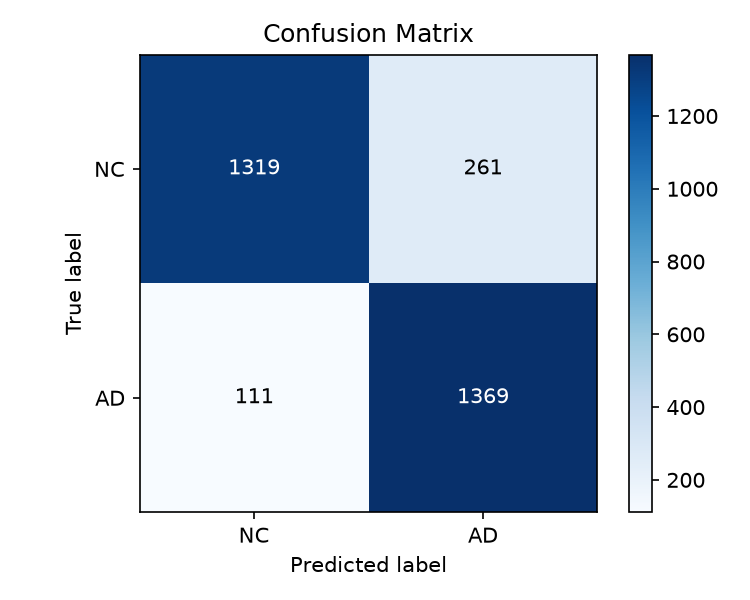
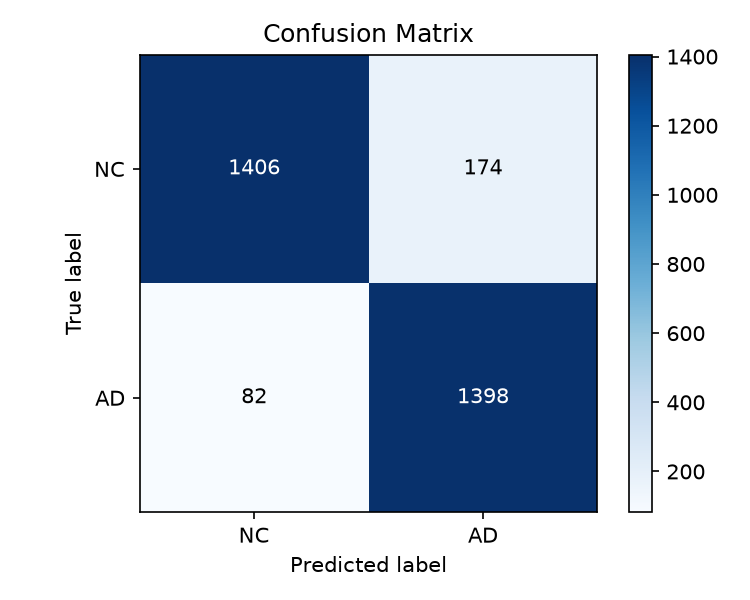
redid training history, confusion matricies, and test metrics for convnext and resnet18

diff --git a/recognition/ConvNeXt_48900353/modules.py b/recognition/ConvNeXt_48900353/modules.py
@@ -177,7 +177,7 @@ class ConvNeXt(nn.Module):
     dropout_rate is applied to pooled features before the classification head.
     """
 
-    def __init__(self, num_classes=2, drop_path_rate=0.1, dropout_rate=0.2):
+    def __init__(self, num_classes=2, drop_path_rate=0.1):
         super().__init__()
 
         # tiny
@@ -221,7 +221,6 @@ class ConvNeXt(nn.Module):
                 ))
 
         self.norm = nn.LayerNorm(widths[-1], eps=1e-6)
-        self.dropout = nn.Dropout(p=dropout_rate)
         self.head = nn.Linear(widths[-1], num_classes)
         self.apply(self._init_weights)
 
@@ -241,7 +240,6 @@ class ConvNeXt(nn.Module):
 
         x = x.mean(dim=(2, 3))  # global average pooling: (N, C, H, W) -> (N, C)
         x = self.norm(x)
-        x = self.dropout(x)
         return self.head(x)
 
 def build_model(
@@ -256,7 +254,6 @@ def build_model(
         return ConvNeXt(
             num_classes=num_classes,
             drop_path_rate=0.1,
-            dropout_rate=0.0,
         )
 
     raise ValueError("model_name must be 'resnet18' or'convnext'.")

diff --git a/recognition/ConvNeXt_48900353/train.py b/recognition/ConvNeXt_48900353/train.py
@@ -14,12 +14,12 @@ from modules import build_model
 
 DATASET_ROOT = "~/Documents/Datasets/ADNI/AD_NC"
 SEED = 42
-MODEL_NAME = "convnext"
+MODEL_NAME = "resnet18"
 BATCH_SIZE = 64
 EPOCHS = 200
 EARLY_STOPPING_PATIENCE = 1000
 LEARNING_RATE = 1e-3
-WEIGHT_DECAY = 0.05
+WEIGHT_DECAY = 1e-4
 NUM_WORKERS = 4
 WARMUP_EPOCHS = 5
 

diff --git a/recognition/ConvNeXt_48900353/README.md b/recognition/ConvNeXt_48900353/README.md
@@ -22,9 +22,9 @@ Each block uses a `7 x 7` convolution to detect pattern in each feature channel 
 | Stage 3 | 9 blocks | `384 × 14 × 14` |
 | Downsample 3 | `2 × 2` convolution = stride 2 | `768 × 7 × 7` |
 | Stage 4 | 3 blocks | `768 × 7 × 7` |
-| Pool and head | LayerNorm, dropout, linear `768 → 2` | 2 logits |
+| Pool and head | LayerNorm, linear `768 → 2` | 2 logits |
 
-This design follows (Liu et al., 2022) configuration of `(3, 3, 9, 3)` blocks with `(96, 192, 384, 768)` channel dimensions giving approximately `27.8` million parameters. This project however changes the original design by reducing the stem to 1 input channel, adding dropout before the classification layer, and reducing the classification layer down to 2 classes.
+This design follows (Liu et al., 2022) configuration of `(3, 3, 9, 3)` blocks with `(96, 192, 384, 768)` channel dimensions giving approximately `27.8` million parameters. This project however changes the original design by reducing the stem down to 1 input channel and reducing the classification layer to 2 classes.
 
 ### 2.2 ResNet-18 Implementation
 ResNet-18 will provide a suitable baseline comparison for the ConvNeXt network since it was the predecessor ConvNeXt was based off. Each `ResNetBlock` contains a `3 x 3` convolution, BatchNorm and ReLU followed by another `3 x 3` convolution and BatchNorm. The output is added to a skip connection and passed through ReLU. This allows the block to learn a residual corecction while preserving a direct path for information and gradients.
@@ -87,42 +87,44 @@ Augmentation expands the appearances observed during learning without adding mor
 
 ### 4.1 Configuration
 
-| Parameter | Value |
-| --- | --- |
-| Initialization | Random weights |
-| Epochs | 200 |
-| Batch size | 64 |
-| Optimizer | AdamW |
-| Initial learning rate | `1e-3` |
-| Weight decay | `1e-4` |
-| Loss | `CrossEntropyLoss(label_smoothing=0.05)` |
-| Learning rate schedule | 5 epoch linear warmup, then cosine decay toward `1e-6` |
-| Checkpoint selection | Highest validation accuracy |
-| Random seed | 42 |
-| DataLoader workers | 4 |
+| Parameter | ResNet-18 | ConvNeXt |
+| --- | --- | --- |
+| Initialization | Random weights | Random weights |
+| Epochs | `200` | `200` |
+| Batch size | `64` | `64` |
+| Optimizer | AdamW | AdamW |
+| Initial learning rate | `1e-3` | `1e-3` |
+| Weight decay | `1e-4` | `0.05` |
+| Drop Path | N/A | `0.1` |
+| Loss | `CrossEntropyLoss(label_smoothing=0.05)` | `CrossEntropyLoss(label_smoothing=0.05)` |
+| Learning rate schedule | `5` epoch linear warmup, then cosine decay toward `1e-6` | `5` epoch linear warmup, then cosine decay toward `1e-6` |
+| Checkpoint selection | Highest validation accuracy | Highest validation accuracy |
+| Random seed | `42` | `42` |
+| DataLoader workers | `4` | `4` |
 
-Validation is run at the end of every epoch where the highest validation accuracy is the model saved. This was to ensure the highest accuracy model was saved even if the models performancce degraded afterwards due to overfitting. `200` epochs were used to allow training time for the model to properly converge. A small batch size of `64` was chosen to lower memory usage and use the stochastic noise during gradient calculations to potentially help the model escape poor local minima.
+Validation is run at the end of every epoch where the highest validation accuracy is the model saved. This was to ensure the highest accuracy model was saved even if the models performancce degraded afterwards due to overfitting. `200` epochs were used to allow training time for the model to properly converge. A small batch size of `64` was chosen to lower memory usage and use stochastic noise during gradient calculations to potentially help the model escape poor local minima.
 
 ### 4.2 Regularisation
-- ConvNeXt uses `30%` dropout to prevent co-adaptation.
-- ConvNext uses `10%` drop path for stochastic depth regularisation.
+- ConvNext uses `0.1` drop path for stochastic depth regularisation.
+- AdamW weight decay shrinks both models weights towards zero.
 - Cross Entropy Loss Label smoothing to reduce over confidence.
+
 ### 4.3 Learning Rate Schedule
-A combination of a linear warmup and cosine annealing was used to change learning rate during training. For the first `5` epochs the learning rate linearly increases up to the inital learning rate of `1e-3`. Then over the next `195` epochs, cosine annealing is used to progressively reduce the learning rate to `1e-6`. This helps the model achieve smooth convergence in late epoch learning as the gradient steps will be smaller.
+A combination of a linear warmup and cosine annealing was used to change learning rate during training. For the first `5` epochs the learning rate linearly increases up to the inital learning rate of `1e-3`. Then over the next `195` epochs, cosine annealing is used to progressively reduce the learning rate to `1e-6`. This helps the model achieve smooth convergence in late epoch learning.
 
 
 ![Plot of Learning rate vs epoch](images/learningrateplot.png)
 
 ## 5. ResNet-18 Model Results
 
-For these results, both models were trained using a Nvidia A100 GPU. The test metrics were evaluated using the `10%` testing split.
+For these results, both models were trained using a Nvidia RTX 5070 Ti. The test metrics were evaluated using the `10%` testing split.
 
 ### 5.1 Training History
-The model was trained for `200` epochs which took approximately `132` minutes and `39.61` seconds per epoch. The training loss and accuracy history plots are shown below.
+The model was trained for `200` epochs which took approximately `37` minutes and `11.24` seconds per epoch. The training loss and accuracy history plots are shown below.
 
 ![ResNet-18 Training History](images/resnet_training_history.png)
 
-The model saved was from epoch `167` which achieved the highest validation accuracy of `91.51%` indiciating the model is capable of generalising to unseen data. As displayed in figure (), ResNet-18 demonstrated strong learning performance steadily increasing to `99.36%` training accuracy. However, validation accuracy plateus at approximately `89-90%` after 100 epochs. This widening gap between training and validation performance indicates overfitting.
+The model saved was from epoch `167` which achieved the highest validation accuracy of `91.51%` indiciating the model is capable of generalising to unseen data. ResNet-18 demonstrated strong early learning performance quickly increasing to over `90%` training accuracy in less than `25` epochs. training accuracy. Validation accuracy improves significantly, reaching approximately `92%` towards the end of training, indicating strong generalisation to unseen data. During the early epochs, validation accuracy displays considerable fluctuations, with validation loss occasionally exceeding `1.0`, before becoming more stable as training continues. Despite this, training accuracy continues to increase towards `100%`, indicating overfitting without achieving further improvements on the validation set.
 
 
 ### 5.2 Test Results
@@ -133,34 +135,36 @@ The final model was evaluated on the hold out test set. The confusion matrix and
 
 | Metric | ResNet-18 |
 | --- | --- |
-| Accuracy | **90.85%** 
-| F1 | **90.85%** |
-| ROC-AUC | **94.96%** |
+| Accuracy | **91.24%** 
+| ROC-AUC | **94.54** |
+| F1 | **91.25%** |
+| Precision (AD positive) | **88.26%** |
+| Recall (AD positive) | **94.46%** |
 
-The model achieved strong performance on the test set, with an accuracy of `90.85%`, F1-score of `90.85%` and ROC-AUC of `94.96%`. Importantly, the model achieved an AD recall (sensitivity) of `93.92%` indicating that it successfully identified the majority of Alzheimer's cases.
-
-The higher number of false positive to false negatives is prefereble in the context of Alzheimer's screening, where failing to identify a potential case may have more serious consequences than incorrectly flagging a healthy individual, who can undergo further diagnostic testing to correct the mistake.
+The model achieved strong performance on the test set, with an accuracy of `91.24%`, F1-score of `91.25%` and ROC-AUC of `94.54%`. Importantly, the model achieved an AD recall of `94.46%` indicating that it successfully identified the majority of Alzheimer's cases. The model also achieved an AD precision of `88.26%` meaning majority of images predicted as Alzheimer's were correctly classified.
 
 ## 6. ConvNeXt Model Results
 ### 6.1 Training History
-The model was trained for `200` epochs which took approximately `135` minutes and `39.78` seconds per epoch. The training loss and accuracy history plots are shown below.
+The model was trained for `200` epochs which took approximately `88` minutes and `26.46` seconds per epoch. The training loss and accuracy history plots are shown below.
 
 ![ConvNeXt Training History](images/convnext_training_history.png)
 
-The model saved was from epoch `172` which achieved the highest validation accuracy of `90.57%`. Compared to ResNet-18, ConvNeXt demonstrates smoother validation performance following closely to training accuracy during earlier epochs. However, validation accuracy begins to plateu around epoch `130` were it again begins to clearly show signs of overfitting.
+The model saved was from epoch `172` which achieved the highest validation accuracy of `92.16%`. Compared to ResNet-18, ConvNeXt demonstrates smoother validation performance following closely to training accuracy during earlier epochs. However, validation accuracy begins to plateu around epoch `120` where training loss continues to decrease and training accuracy approaches `100%`, creating a widening generalisation gap between training and validation performance. This again indicates the model overfitting later in training.
 
 ### 6.2 Test Results
 ![ConvNeXt Confusion Matrix](images/convnext_confusion_matrix.png)
 
 | Metric | ConvNeXt |
 | --- | --- |
-| Accuracy | **87.84%** 
-| F1 | **88.04%** |
-| ROC-AUC | **94.45%** |
+| Accuracy | **91.63%** 
+| F1-score | **91.61%** |
+| ROC-AUC | **95.96%** |
+| Precision (AD positive) | **88.93%** |
+| Recall (AD positive) | **94.46%** |
 
-ConvNeXt achieved strong performance on the test set, with an accuracy of `87.84%`, F1-score of `88.04%` and ROC-AUC of `94.45%`. The confusion matrix shows it correctly identified less NC and AD images compared to ResNet. The model achieved a lower AD recall (sensitivity) of `92.50%` meaning ConvNeXt missed more true postives compared to ResNet.
+ConvNeXt achieved stronger performance on the test set compared to ResNet-18, with an accuracy of `91.63%`, F1-score of `91.61%` and ROC-AUC of `95.96%`. The model achieved a higher AD precision of `88.93%` but had an equal AD recall of `94.46%` compared to ResNet-18.
 
-This sensitivity still shows the model is effective at identifying the majority of Alzheimer's cases but it misses an additional `21` AD images compared to ResNet. These false negatives may lead a potential early case of Alzheimer's to go un-noticed. 
+ConvNeXt produced `12` fewer false positives to ResNet-18, demonstrating slightly better specificity while maintaining the same sensitivity.
 
 ## 7. Analysis of Results
 ### 7.1 Why Sensitivity Matters
